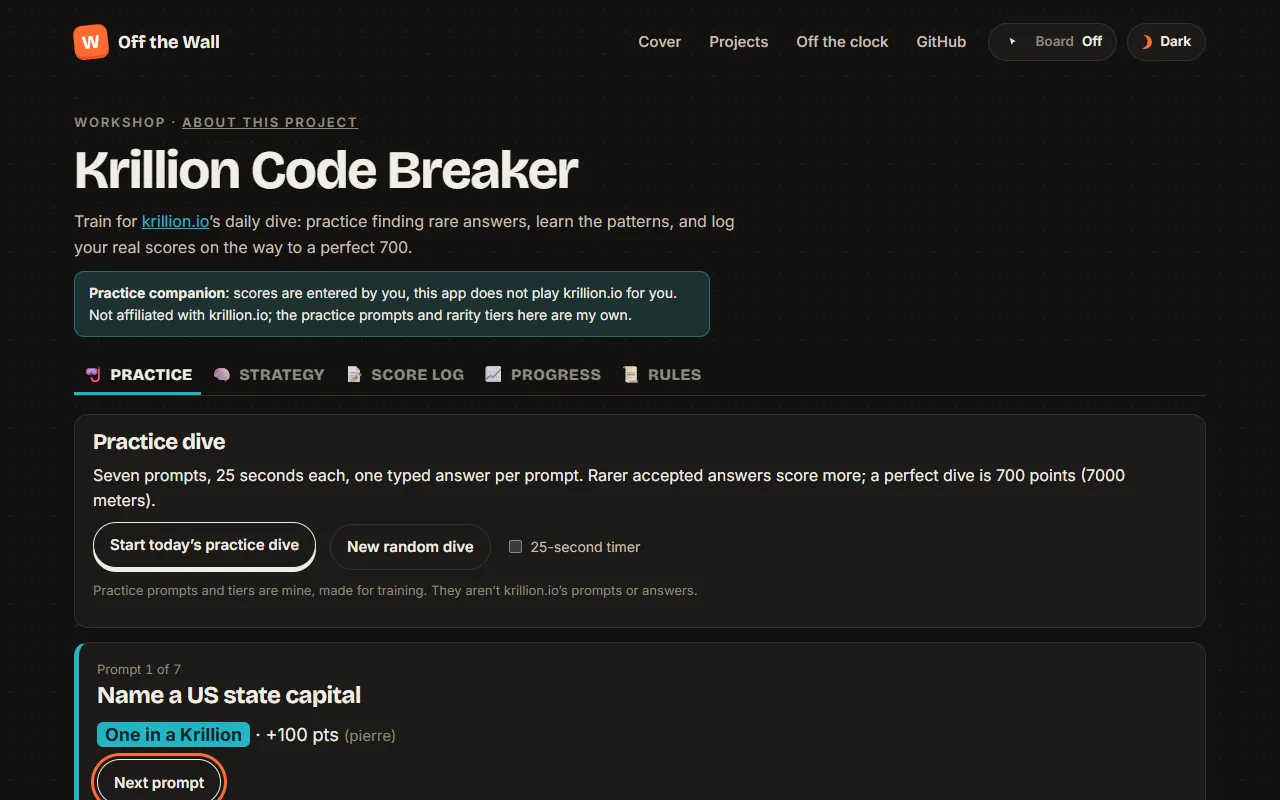
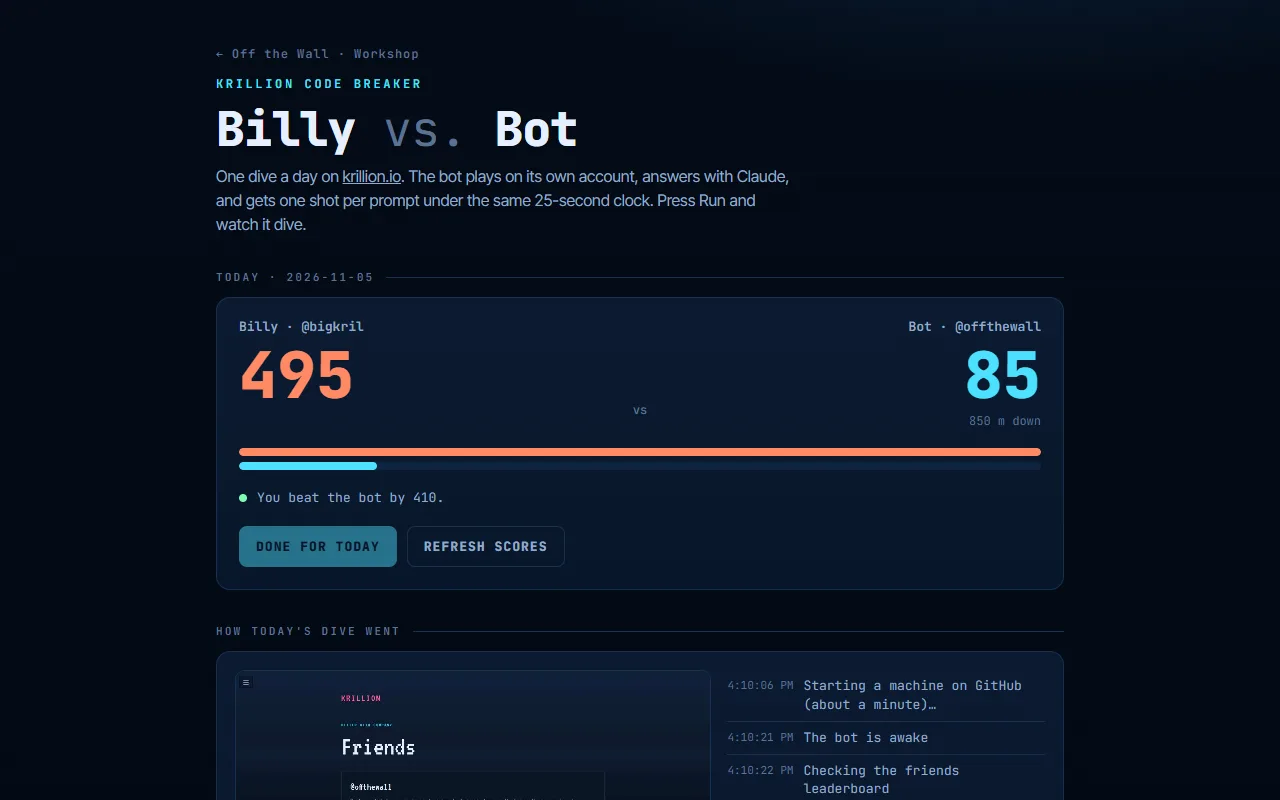
Code Breaker: Billy vs. Bot title, moved to Production Ready with a new screenshot

diff --git a/js/projects.js b/js/projects.js
@@ -316,7 +316,7 @@ export const projects = [
   {
     slug: 'krillion-code-breaker',
     name: 'Krillion Code Breaker',
-    kicker: 'Me vs. the Machine',
+    kicker: 'Billy vs. Bot',
     icon: '🤿',
     accent: '#23b5c4',
     tagline: 'Press Run and watch a Claude-powered bot play krillion.io’s daily dive against me.',
@@ -349,8 +349,8 @@ export const projects = [
       'While it plays it sends a play-by-play and a screenshot about once a second to the Worker, and the page polls for them.',
       'Afterwards it reads the friends leaderboard, so my score and the bot’s land side by side in the history.',
     ],
-    status: 'workshop',
-    statusNote: 'Built and tested; the bot’s first real dives are next.',
+    status: 'live',
+    statusNote: 'Plays krillion.io’s daily dive against me, once a day.',
     next: [
       'Its first week of daily dives',
       'Track which kinds of prompts the bot wins and loses',
@@ -358,7 +358,7 @@ export const projects = [
     tags: ['Playwright', 'Claude API', 'Cloudflare Workers'],
     url: '/code-breaker/',
     code: null,
-    image: null,
+    image: '/img/code-breaker.webp',
     art: 'dive',
   },
   {

diff --git a/code-breaker/index.html b/code-breaker/index.html
@@ -173,7 +173,7 @@
   <header>
     <a class="home" href="/home/#polished">← Off the Wall · Workshop</a>
     <div class="kicker">Krillion Code Breaker</div>
-    <h1>Billy <span class="vs">vs.</span> the machine</h1>
+    <h1>Billy <span class="vs">vs.</span> Bot</h1>
     <p>One dive a day on <a href="https://krillion.io" rel="noopener">krillion.io</a>. The bot plays on its own account, answers with Claude, and gets one shot per prompt under the same 25-second clock. Press Run and watch it dive.</p>
     <div class="demo-flag" id="demoFlag" hidden>DEMO DATA · REMOVE ?demo TO GO LIVE</div>
   </header>
